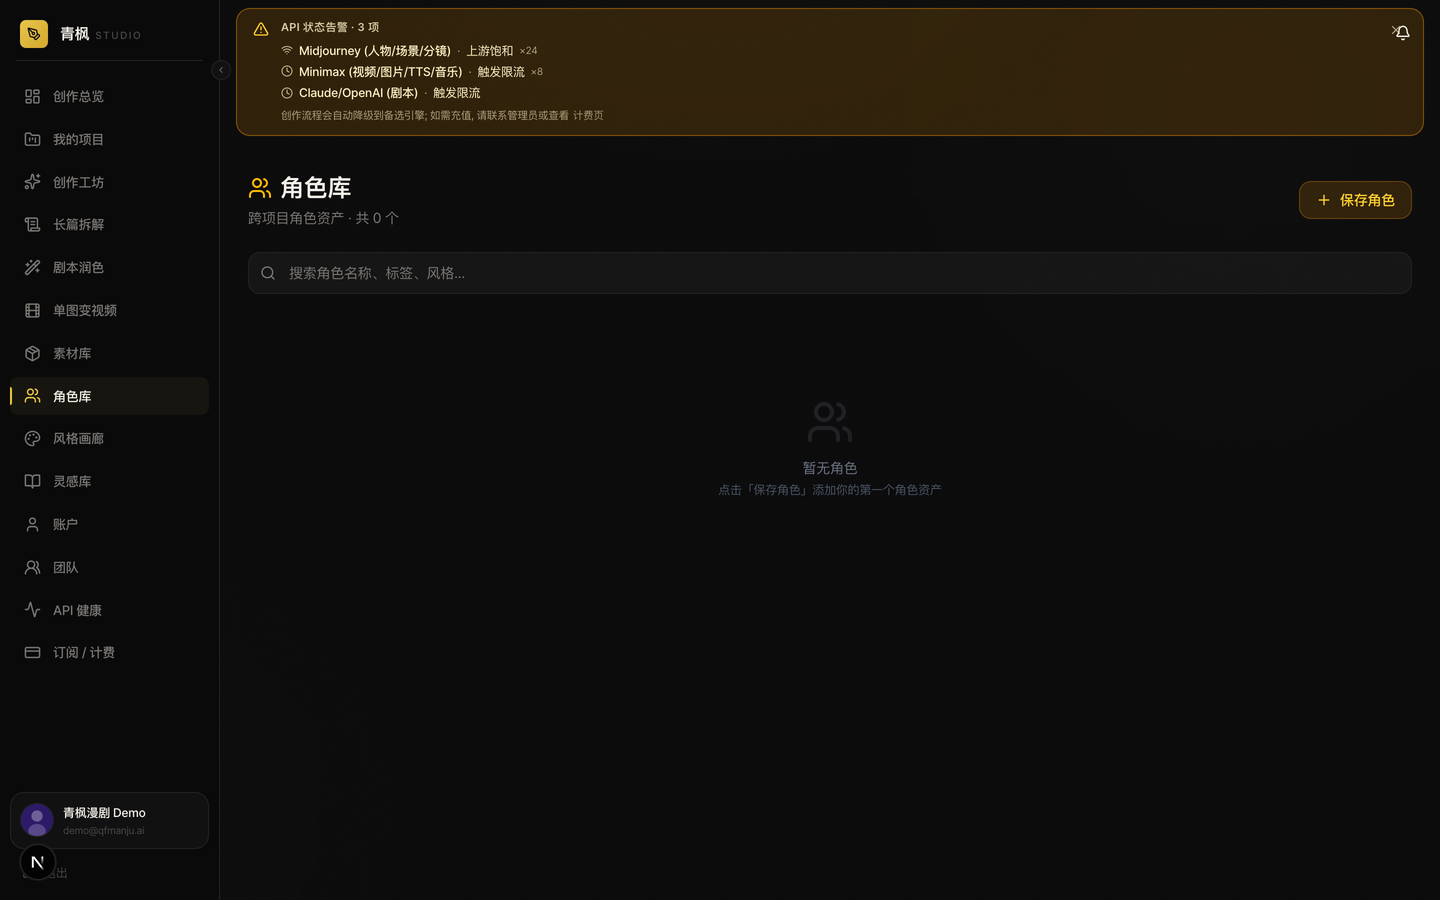
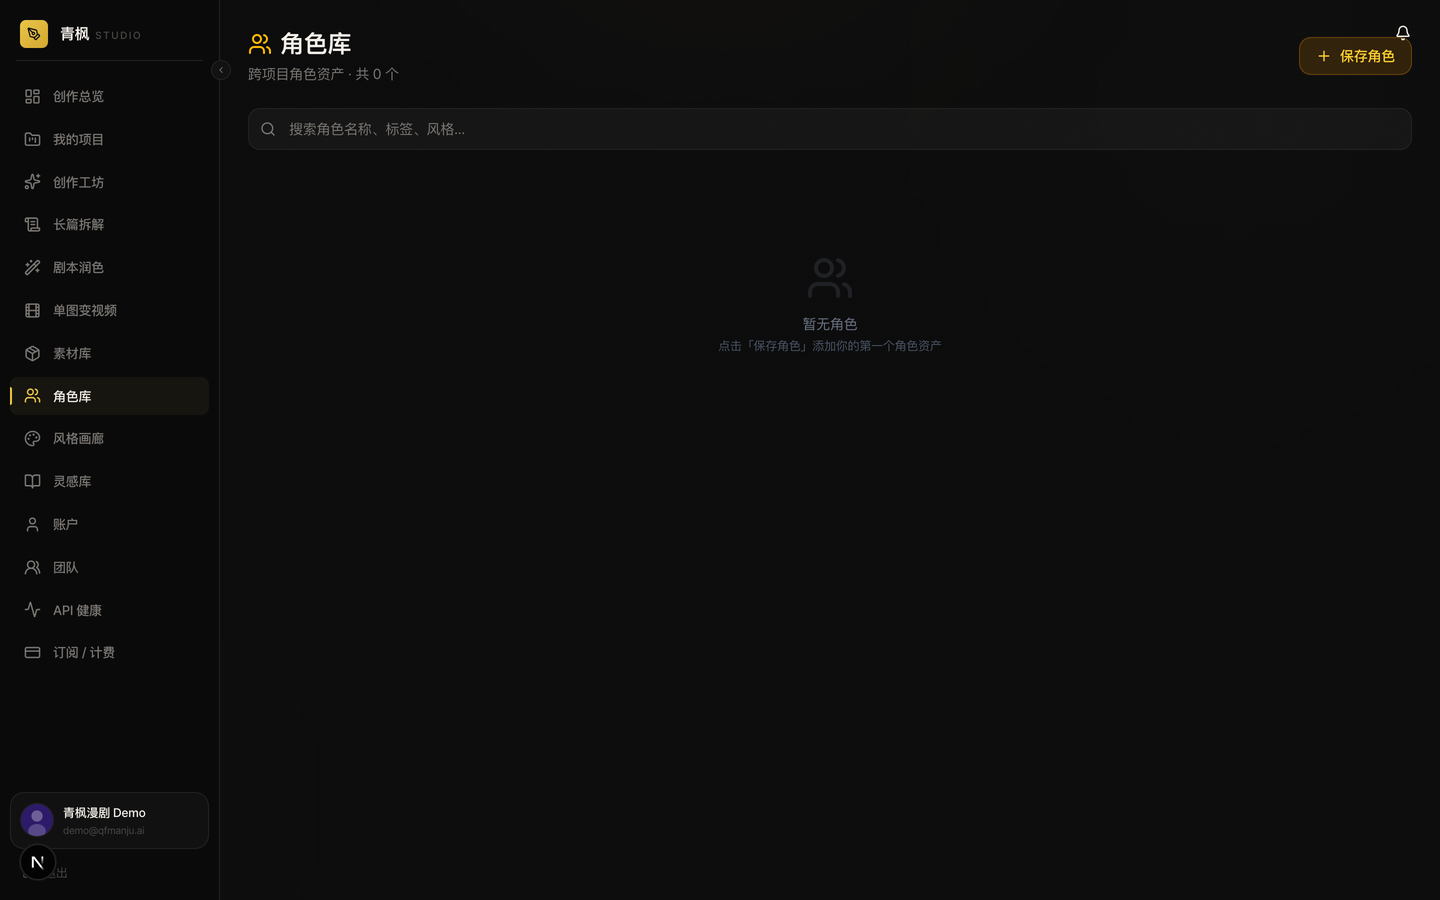
docs: GitHub/ModelScope 介绍中英双语 + 截图/GIF 刷新到最新 (v7.0)
- README.md / README.zh-CN.md: 头部加双语 tagline (EN+中文); 版本 v6.7→v7.0;
  「New in v6」表补 v6.8/v6.9/v7.0; 测试 1708→1711
- docs/modelscope-profile.md §0: 加 English 镜像段 (中英双语), 网关表更新到 v7.0
  (创意 deepseek-v4-pro / 通用 claude-sonnet-4-6 / MiniMax 全局兜底), bio v6.7→v7.0
- assets/v6/: 重抓 8 张最新真实界面 (健康看板现含 3 条 LLM 线) + 重生成巡览 GIF

diff --git a/docs/modelscope-profile.md b/docs/modelscope-profile.md
@@ -7,7 +7,7 @@
 ## 〇. v6 产品介绍页 (ModelScope「介绍」可直接粘贴 · 图片走 GitHub raw 绝对链)
 
 > **Wind Comic 🌬 风之漫剧 —— 一句话进,整片短剧出。**
-> 不是再给你一个 5 秒片段,而是一条**诚实的多 Agent 流水线** + 一个**生产级创作工作室**:剧本 → 角色 → 分镜 → 配音 → 多轨时间线 → 成片 mp4,全部从同一句创意开始。MIT 开源,**1708 单测全过**,所有功能都在 `main` 里跑得起来,不是 PPT。
+> 不是再给你一个 5 秒片段,而是一条**诚实的多 Agent 流水线** + 一个**生产级创作工作室**:剧本 → 角色 → 分镜 → 配音 → 多轨时间线 → 成片 mp4,全部从同一句创意开始。MIT 开源,**1711 单测全过**,所有功能都在 `main` 里跑得起来,不是 PPT。
 
 <p align="center">
   <img src="https://raw.githubusercontent.com/ChrisChen667788/wind-comic/main/assets/v6/wind-comic-v6-tour.gif" alt="Wind Comic v6 巡览" width="100%" />
@@ -34,18 +34,38 @@
 </tr>
 </table>
 
-**技术栈 · 网关路由(v6.8/v6.9)**:每个模型调用 provider 可插拔(优先级链 + 自动 fallback),主网关跑最强模型、补全网关补能力、MiniMax 永远兜底 ——
+**技术栈 · 网关路由(v6.8–v7.0)**:每个模型调用 provider 可插拔(优先级链 + 自动 fallback),**MiniMax 全局兜底**(任何异常/欠费/超时自动路由)——
 
-| 能力 | 主(最强) | 补全 | 兜底 |
+| 能力 | 主(最强) | 补全 | 全局兜底 |
 |---|---|---|---|
-| LLM | `claude-opus-4-7` / `claude-sonnet-4-6` | — | MiniMax |
+| LLM 创意(编剧/导演) | `deepseek-v4-pro` | — | **MiniMax-M2.7** |
+| LLM 通用 | `claude-sonnet-4-6` | — | **MiniMax-M2.7** |
 | 视频 | `veo3.1-pro` | Kling | MiniMax Hailuo |
 | 图像 | `flux-2-pro` | Midjourney | MiniMax image-01 |
 | 配音 | `gpt-4o-mini-tts` | — | MiniMax T2A |
 
 > 框架 Next.js 16 + React 19 + Tailwind v4 · SQLite/Postgres 双驱动 · Yjs 实时协作 · 4 语言 i18n · 内置 API 健康看板(各网关用量/余额/欠费一屏看清) · 1711 单测全过
 
-> 🔗 GitHub(完整代码 + 文档 + 截图):**github.com/ChrisChen667788/wind-comic** · 🪪 MIT · ⭐ 觉得有用点个 Star
+---
+
+### English
+
+> **Wind Comic 🌬 — one sentence in, a finished short-form drama out.**
+> Not another 5-second clip — an **honest multi-agent pipeline** + a **production-grade studio**: script → cast → storyboards → voiceover → multi-track timeline → final mp4, all from one idea. MIT open-source, **1711 tests passing**, every feature live in `main` (no slideware).
+
+**v6 turned it from a runnable demo into a usable studio —**
+
+- 🎭 **Character Studio** — multi-view turnaround sheets + 8-field DNA lock + auto-bound voice, reusable across projects
+- 📖 **Novel → season + real voiceover** — paste a whole novel, auto-split by chapter, pick a narration mode, render real TTS narration + burned subtitles for the whole season in parallel
+- 🎬 **Director Console** — 4-stage pipeline at a glance, stale detection + one-click single-stage rerun + downstream-impact analysis
+- 🎨 **Style Gallery** — 60 cinematic presets, one-click apply
+- 👥 **Team Workspace** — credit pool + per-member allocation + RBAC + real multi-user invites
+- 🩺 **API Health Board** — see every gateway healthy / out-of-credits / misconfigured at a glance, with live balance
+- 🔌 **BYO LLM + universal fallback** — swap any OpenAI-compatible model in 3 env lines; **DeepSeek `deepseek-v4-pro`** drives Writer/Director, with **MiniMax** as the global fallback on any error/out-of-credits
+
+> Stack: Next.js 16 + React 19 + Tailwind v4 · SQLite/Postgres dual-driver · Yjs realtime collab · 4-language i18n · built-in API health board · 1711 tests passing
+
+> 🔗 GitHub (full code + docs + screenshots): **github.com/ChrisChen667788/wind-comic** · 🪪 MIT · ⭐ Star it if it helps
 
 ---
 
@@ -55,23 +75,23 @@
 
 > **Wind Comic 🌬 — 开源多 Agent AI 漫剧 / 短剧流水线作者**
 >
-> 一句 idea, 8 个 agent, 一部完整短剧. 锁脸 + 锁画风 + 中文字幕真烧入 + Logic Pro 风时间线 + 实时多人协作 + 接你自己的 LLM. MIT 开源, 1708 单测全过.
+> 一句 idea, 8 个 agent, 一部完整短剧. 锁脸 + 锁画风 + 中文字幕真烧入 + Logic Pro 风时间线 + 实时多人协作 + 接你自己的 LLM. MIT 开源, 1711 单测全过.
 >
 > 🔗 GitHub: github.com/ChrisChen667788/wind-comic
 > 🎬 适合: 竖屏短剧创作者 · 内容营销团队 · 漫画/漫剧工作室 · 独立电影人 · AI 开源开发者
 >
-> 持续迭代中, 已发布到 v6.7.
+> 持续迭代中, 已发布到 v7.0.
 
 ### English version
 
 > **Wind Comic 🌬 — Author of the open-source multi-agent AI short-drama pipeline**
 >
-> One sentence in. Finished short drama out. 8-agent pipeline · character DNA lock · style bible · real CJK subtitles · Logic Pro-style timeline · real-time multiplayer · BYO LLM. MIT licensed. 1708 tests passing.
+> One sentence in. Finished short drama out. 8-agent pipeline · character DNA lock · style bible · real CJK subtitles · Logic Pro-style timeline · real-time multiplayer · BYO LLM. MIT licensed. 1711 tests passing.
 >
 > 🔗 GitHub: github.com/ChrisChen667788/wind-comic
 > 🎬 Built for: vertical-drama creators · content marketing teams · comic/manhua studios · indie filmmakers · open-source builders
 >
-> Current release: v6.7 (continuously shipping).
+> Current release: v7.0 (continuously shipping).
 
 ---
 
@@ -126,7 +146,7 @@
 - **我们是: 多 Agent + 开源 + 中文优先 + 自部署 + 你自己的 LLM + 实时协作**
 
 **为什么相信我们**:
-- 1708 个单测全过
+- 1711 个单测全过
 - TypeScript 严格模式
 - 21 个 sprint 迭代 (v2.0 → v3.1.3)
 - 完整 changelog 见 ROADMAP.md
@@ -163,7 +183,7 @@ Repo: github.com/ChrisChen667788/wind-comic
 
 **vs Competitors**: Sora 2 (one model) · Kling (no subtitle burn) · Vidu (CJK garbled) · Higgsfield (closed + $30/mo) · Runway Gen-4 (weak Chinese) → **We are multi-agent + open + Chinese-first + self-host + your LLM + real-time collab**.
 
-**Trust signals**: 1708 vitest tests · TypeScript strict · 21 sprints (v2.0 → v3.1.3) · Honest self-audit in `docs/COMPETITIVE-GAP-2026-05.md`.
+**Trust signals**: 1711 vitest tests · TypeScript strict · 21 sprints (v2.0 → v3.1.3) · Honest self-audit in `docs/COMPETITIVE-GAP-2026-05.md`.
 
 ---
 
@@ -263,7 +283,7 @@ Wind Comic 走相反路线: **流水线 + 多 Agent + 严格契约**. 每个 age
 - LLM 接入文档: `docs/llm-providers.md`
 - 竞品对照: `docs/COMPETITIVE-GAP-2026-05.md`
 
-⭐ MIT 开源, 1708 单测, 持续迭代中.
+⭐ MIT 开源, 1711 单测, 持续迭代中.
 
 ### English version
 
@@ -311,7 +331,7 @@ Wind Comic takes the opposite approach: **pipeline + multi-agent + strict contra
 - LLM swap docs: `docs/llm-providers.md`
 - Competitive self-audit: `docs/COMPETITIVE-GAP-2026-05.md`
 
-⭐ MIT licensed. 1708 tests passing. Shipping continuously.
+⭐ MIT licensed. 1711 tests passing. Shipping continuously.
 
 ---
 

diff --git a/README.md b/README.md
@@ -2,18 +2,22 @@
   <img src="assets/banner.png" alt="Wind Comic — One line of text. One finished short drama." width="100%" />
 </p>
 
-<h1 align="center">🌬 Wind Comic <sub><sup>v6.7</sup></sub></h1>
+<h1 align="center">🌬 Wind Comic <sub><sup>v7.0</sup></sub></h1>
 
 <p align="center">
   <b>One sentence in. A finished short-form drama out — script, cast, storyboards, voiceover, timeline, mp4.</b><br/>
   Multi-agent AI studio · reusable characters · novel→season splitting · director's control room · real-time collab · bring-your-own LLM.
+</p>
+<p align="center">
+  <b>一句话进,整片短剧出 —— 剧本 · 角色 · 分镜 · 配音 · 时间线 · mp4 一条龙。</b><br/>
+  多 Agent AI 创作工作室 · 可复用角色 · 长篇小说→自动分集 · 导演级控片台 · 实时协作 · 自带 LLM。
 </p>
 
 <p align="center">
   <a href="https://github.com/ChrisChen667788/wind-comic/blob/main/LICENSE"><img src="https://img.shields.io/badge/License-MIT-blue.svg" alt="MIT License" /></a>
   <a href="https://github.com/ChrisChen667788/wind-comic/actions/workflows/ci.yml"><img src="https://img.shields.io/github/actions/workflow/status/ChrisChen667788/wind-comic/ci.yml?branch=main&label=CI&logo=github" alt="CI" /></a>
   <a href="https://github.com/ChrisChen667788/wind-comic/stargazers"><img src="https://img.shields.io/github/stars/ChrisChen667788/wind-comic?style=social" alt="GitHub stars" /></a>
-  <img src="https://img.shields.io/badge/Tests-1708%2F1708-2ea44f" alt="1708 tests passing" />
+  <img src="https://img.shields.io/badge/Tests-1711%2F1711-2ea44f" alt="1711 tests passing" />
   <img src="https://img.shields.io/badge/Node-20%2B-339933?logo=node.js&logoColor=white" alt="Node 20+" />
   <img src="https://img.shields.io/badge/Next.js-16-black?logo=next.js" alt="Next.js 16" />
 </p>
@@ -64,6 +68,9 @@ It works because it doesn't try to be one giant model. It's an **honest multi-ag
 | **v6.5 · Team Workspace** | Owner-managed credit pool, per-member allocations + RBAC, **real multi-user invites** (token links), per-member consumption metering. |
 | **v6.6 · Postgres-ready** | Full SQLite→Postgres cutover path, **verified end-to-end on a local Postgres** (schema bootstrap + async-repo round-trip, idempotent migrate). |
 | **v6.7 · API Health Board** | One screen to see which gateway is healthy / **out-of-credits** / misconfigured — with live balance read-out, so you never hit a dead generation mid-flow again. |
+| **v6.8 · Strongest models** | Primary LLM/video/image repointed to top-tier models (`veo3.1-pro`, etc.) and fixed a video-stage `429 upstream-saturated` error by rerouting the gateway. |
+| **v6.9 · Gateway gap-fill** | A supplement gateway backfills TTS / Midjourney / Kling; real voiceover via `gpt-4o-mini-tts`; per-gateway **usage + balance** on the health board. |
+| **v7.0 · DeepSeek + universal fallback** | Writer/Director run on DeepSeek's strongest **`deepseek-v4-pro`**; every LLM call auto-falls back to **MiniMax** on any error / out-of-credits / timeout. 3-tier LLM health on the board. |
 
 ### 🎬 Director Console — the whole film as one control room *(v6.4)*
 Every stage at a glance — what's ready, what's gone stale because you changed something upstream, and a one-click rerun that knows exactly which downstream stages it invalidates.
@@ -138,7 +145,7 @@ After Writer finishes, we score each shot 0-10 on a Chinese-conflict-word dictio
 ### 9. **Bring Your Own LLM** (v3.1.3)
 Every text-LLM call (Director / Writer / Vision / Audit) goes through one OpenAI-compatible `chat/completions` endpoint. Want to swap to DeepSeek-r1 / GPT-4o / Claude (via OpenRouter) / Qwen-Max / local Ollama? **Edit 3 lines in `.env`. Zero code change.** See [`docs/llm-providers.md`](docs/llm-providers.md) for the full matrix.
 
-### 10. **1708 tests, TypeScript strict, no fake "coming soon"s**
+### 10. **1711 tests, TypeScript strict, no fake "coming soon"s**
 Every feature listed above is in `main`, type-checked, unit-tested, and visible at `/projects/[id]` if you `npm install && npm run dev` right now.
 
 ---
@@ -294,7 +301,7 @@ npm run dev:ws             # Yjs WebSocket server on :1234
 
 We're open to PRs. Two things matter most:
 1. **Don't break the multi-agent contracts.** Each agent has explicit input/output shapes — see `types/agents.ts`.
-2. **Tests gate everything.** Vitest 1708/1708 must stay green. Add tests for new lib/service files.
+2. **Tests gate everything.** Vitest 1711/1711 must stay green. Add tests for new lib/service files.
 
 See [`CLAUDE.md`](CLAUDE.md) for the repo's "house style" + agent design notes.
 

diff --git a/README.zh-CN.md b/README.zh-CN.md
@@ -2,11 +2,15 @@
   <img src="assets/banner.png" alt="Wind Comic — 一句话变完整短剧" width="100%" />
 </p>
 
-<h1 align="center">🌬 Wind Comic 风之漫剧 <sub><sup>v6.7</sup></sub></h1>
+<h1 align="center">🌬 Wind Comic 风之漫剧 <sub><sup>v7.0</sup></sub></h1>
 
 <p align="center">
   <b>一句话进,整片短剧出 —— 剧本 · 角色 · 分镜 · 配音 · 时间线 · mp4 一条龙.</b><br/>
   多 Agent AI 创作工作室 · 可复用角色 · 长篇小说→自动分集 · 导演级控片台 · 实时协作 · 自带 LLM.
+</p>
+<p align="center">
+  <b>One sentence in. A finished short-form drama out — script, cast, storyboards, voiceover, timeline, mp4.</b><br/>
+  Multi-agent AI studio · reusable characters · novel→season splitting · director's control room · real-time collab · BYO LLM.
 </p>
 
 <p align="center">
@@ -55,6 +59,9 @@
 | **v6.5 · 团队工作区** | 主账号管理积分池、按成员分配额度 + RBAC、**真·多用户邀请**(token 链接)、成员消费按额度扣减。 |
 | **v6.6 · Postgres 就绪** | SQLite→Postgres 全量切换路径,**已在本地 Postgres 端到端验证**(schema bootstrap + async repo 往返,迁移幂等)。 |
 | **v6.7 · API 健康看板** | 一屏看清每个网关 正常 / **额度用尽** / 配置缺失 / 不可达,带实时余额读数 —— 再不会生成到一半撞上欠费。 |
+| **v6.8 · 升级最强模型** | 主 LLM/视频/图像切到顶级模型(`veo3.1-pro` 等),顺带修了视频阶段 `429 上游饱和` 报错(重路由网关)。 |
+| **v6.9 · 网关补全** | 补全网关接住 TTS / Midjourney / Kling;`gpt-4o-mini-tts` 真配音;健康看板显示**各网关用量 + 余额**。 |
+| **v7.0 · DeepSeek + 全局兜底** | 编剧/导演跑 DeepSeek 最强 **`deepseek-v4-pro`**;每次 LLM 调用在异常/欠费/超时自动**兜底到 MiniMax**;健康看板拆 3 条 LLM 线。 |
 
 ### 🎬 导演级控片台 —— 整部片就是一个控制室 *(v6.4)*
 一眼看清每个环节:哪些就绪、哪些因上游改动变「待更新」,以及一键重跑(自动算出会让哪些下游失效)。
@@ -129,7 +136,7 @@ Kling lip-sync API 做口播口型, 自动 fallback 到 Sync.so / Hailuo. 流水
 ### 9. **接你自己的 LLM** (v3.1.3)
 所有文本 LLM 调用 (导演 / 编剧 / vision / 审计) 走一个 OpenAI 兼容 `chat/completions` 端点. 想换 DeepSeek-r1 / GPT-4o / Claude (via OpenRouter) / 通义 Max / 本地 Ollama? **改 3 行 `.env` 完事, 0 改代码**. 完整矩阵见 [`docs/llm-providers.md`](docs/llm-providers.md).
 
-### 10. **1708 个单测全过, TypeScript 严格模式, 没有"敬请期待"**
+### 10. **1711 个单测全过, TypeScript 严格模式, 没有"敬请期待"**
 上面列的每个功能都已经在 `main` 分支, 类型检查零错误, 单测覆盖, 你 `npm install && npm run dev` 就能在 `/projects/[id]` 看到.
 
 ---
@@ -253,7 +260,7 @@ npm run dev:ws             # Yjs WebSocket server on :1234
 
 欢迎 PR. 两条规则:
 1. **不要破坏多 Agent 契约.** 每个 agent 输入输出 shape 在 `types/agents.ts`.
-2. **测试是底线.** Vitest 1708/1708 必须保持绿. 新加 lib/service 必须配测试.
+2. **测试是底线.** Vitest 1711/1711 必须保持绿. 新加 lib/service 必须配测试.
 
 详见 [`CLAUDE.md`](CLAUDE.md) — 仓库的"代码风格"和 agent 设计笔记.
 
